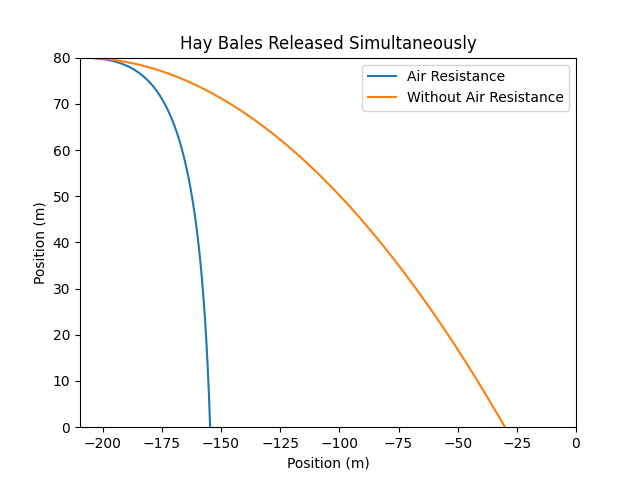
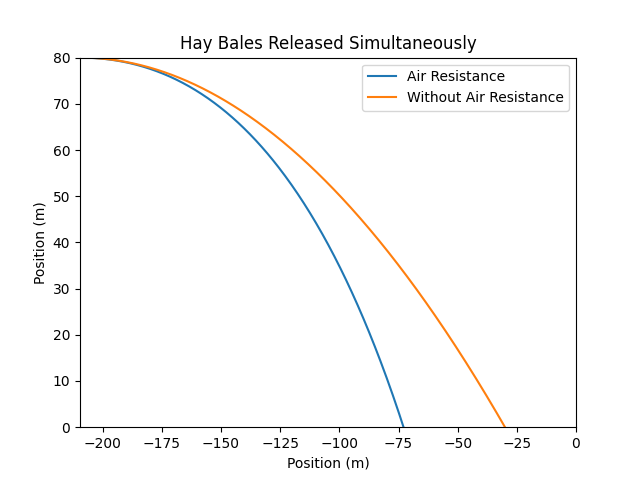
2-7 Fixes

diff --git a/Chapter 2/2-7.py b/Chapter 2/2-7.py
@@ -41,8 +41,10 @@ XPosition[0], YPosition[0] = XStartPosition,PlaneHeight
 
 for i in range(Steps):
     if (not i == 0):
-        XAcceleration = - ( DragCoefficient / HayBaleMass ) * XVelocity * XVelocity
-        YAcceleration = -Gravity - ( DragCoefficient / HayBaleMass ) * YVelocity * YVelocity
+        XDrag = 0.5 * DragCoefficient * AirDensity * HayBaleSurfaceArea * XVelocity * XVelocity
+        XAcceleration = - (XDrag / HayBaleMass)
+        YDrag = 0.5 * DragCoefficient * AirDensity * HayBaleSurfaceArea * YVelocity * YVelocity
+        YAcceleration = -Gravity - ( YDrag / HayBaleMass )
         XVelocity = XVelocity + XAcceleration * TimeStep
         YVelocity = YVelocity + YAcceleration * TimeStep
         XPosition[i] = XPosition[i-1] + XVelocity * TimeStep
